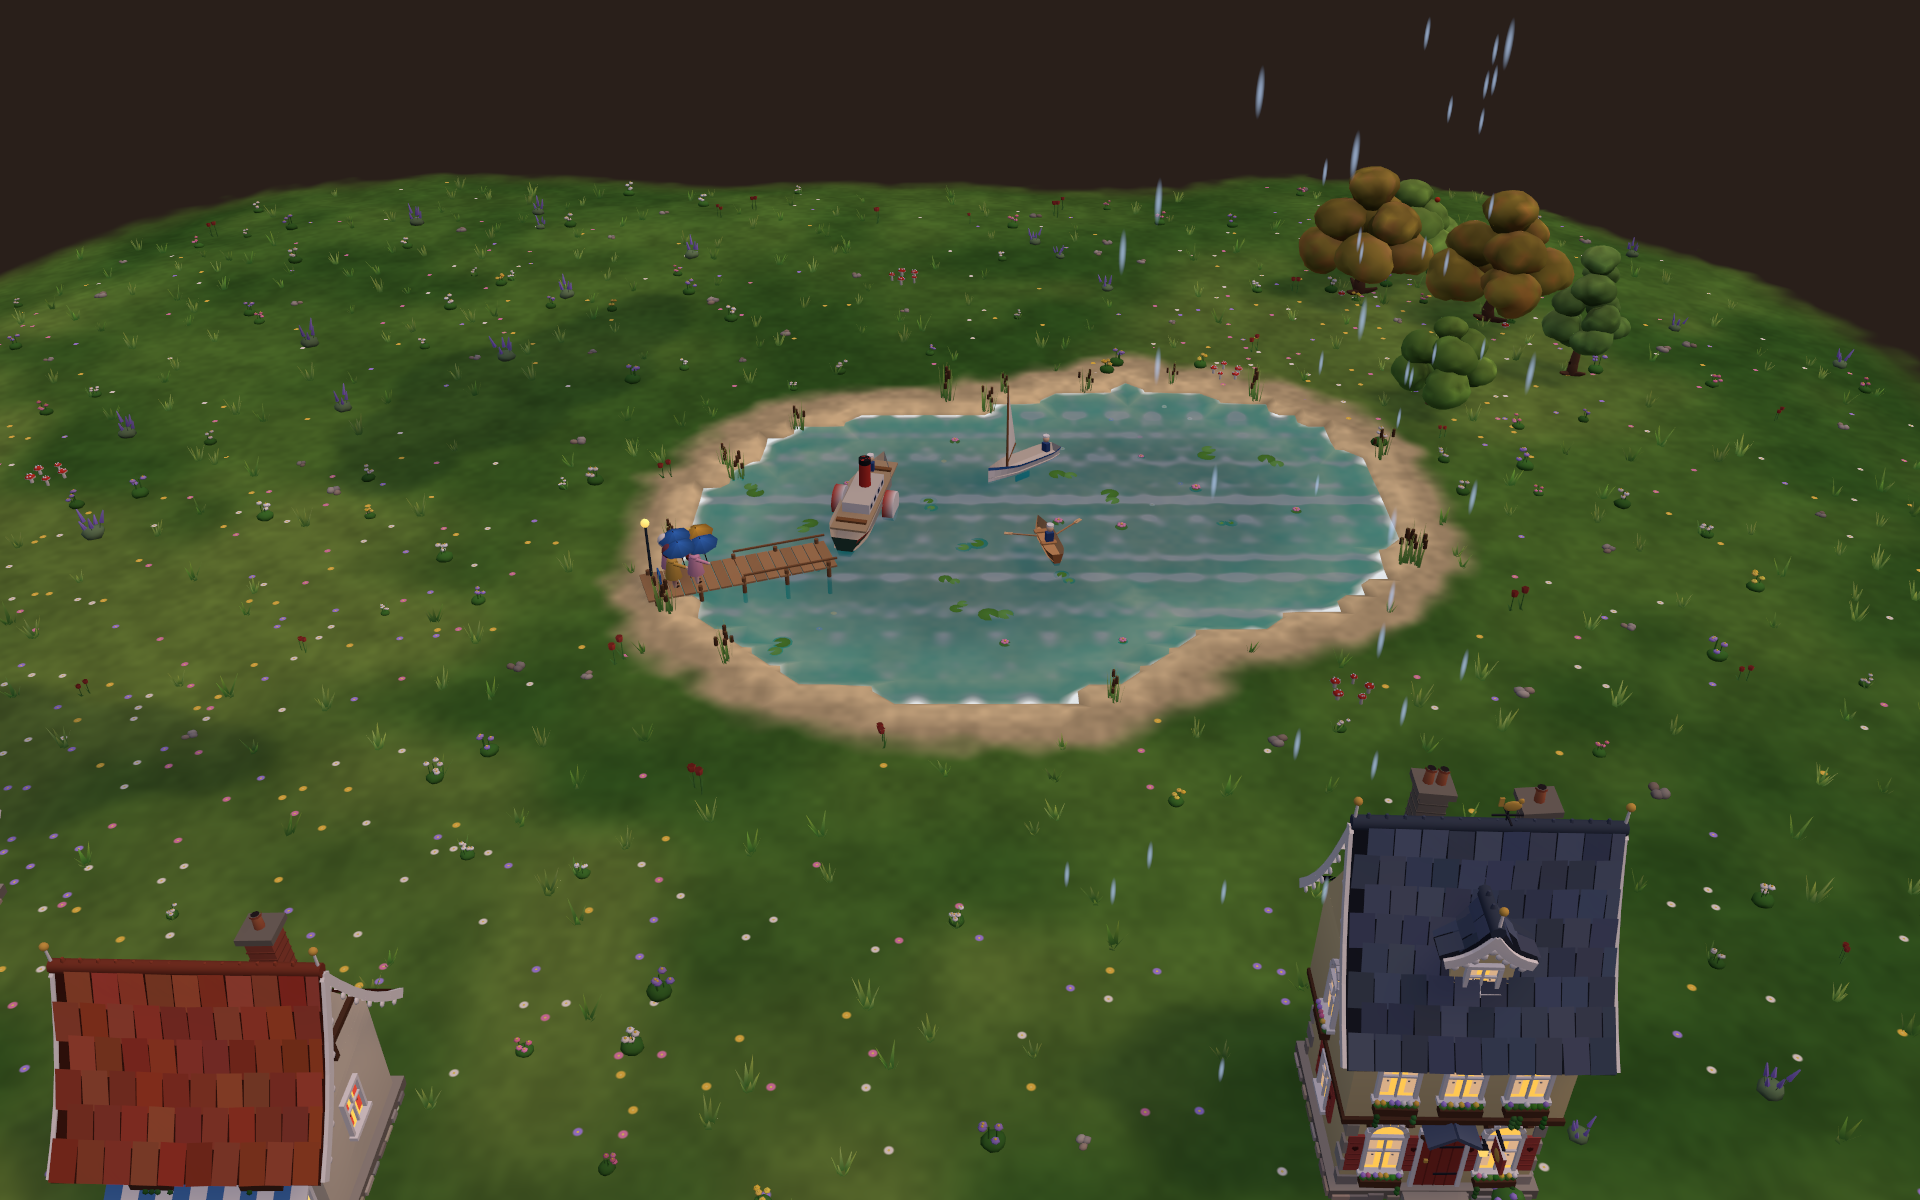
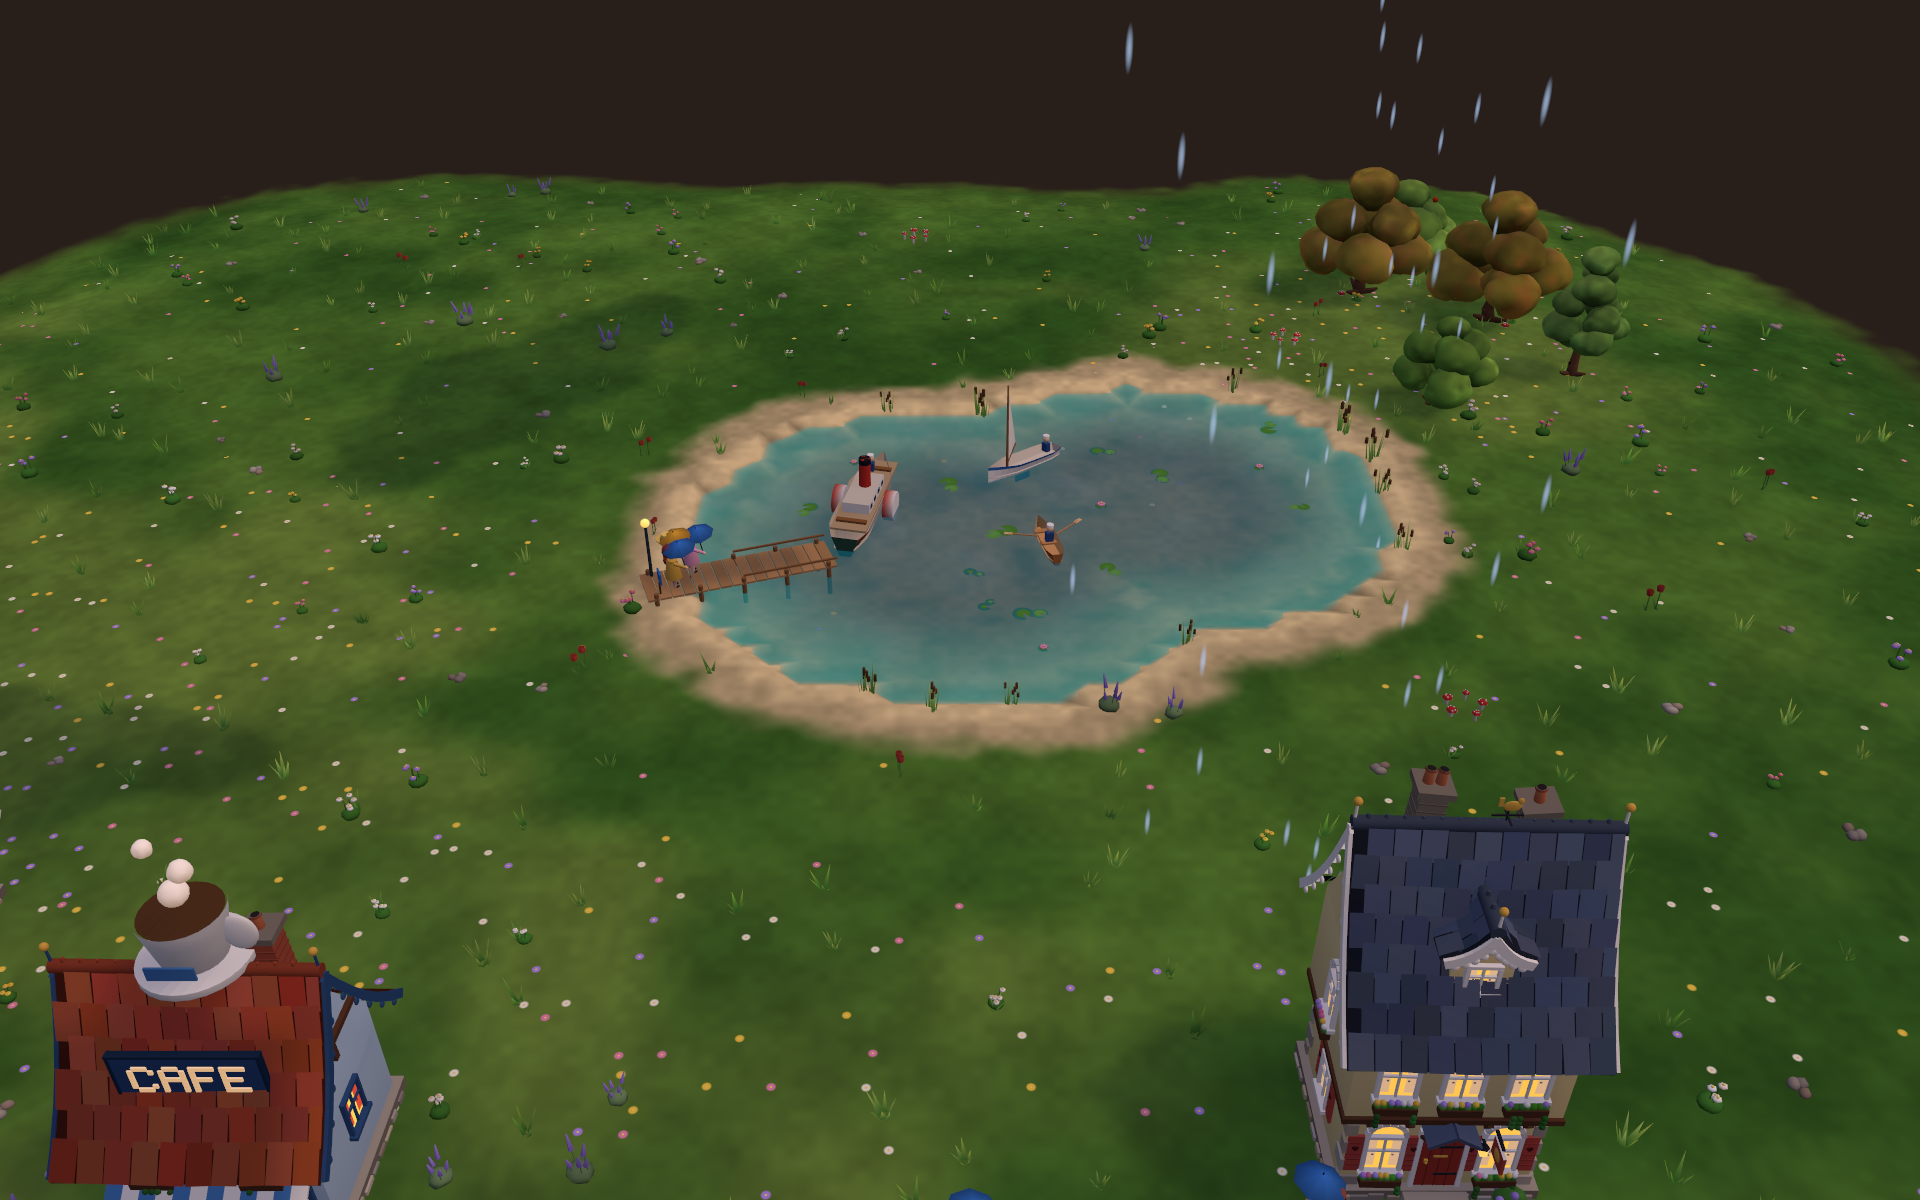
Water that looks like water: smooth soft shorelines, ripples that don't line up, no white blocks
- Ponds: the surface stays flat at the water's level two cells out under the banks, so the land cuts it along the
  smooth line where the two meet (it used to slope down under the bank and show the grid's steps), and it fades out
  towards dry ground instead of ending in white sawteeth
- The ripples are two layers of noise turned different ways, so their glints no longer line up in stripes across the
  pond; a softer glint, a lighter fringe in the shallows, a deeper middle
- Streams: steep drops show whitewater streaks rather than a solid white band

diff --git a/Assets/Wonderland/Scripts/World/WaterRenderer.cs b/Assets/Wonderland/Scripts/World/WaterRenderer.cs
@@ -5,8 +5,8 @@ using UnityEngine.Rendering;
 namespace Wonderland
 {
     /// <summary>
-    /// Draws the ponds: a flat water surface over every water cell (and a one-cell margin so it meets the banks, where
-    /// the opaque terrain clips it into a natural shoreline). Chunked like the terrain; only touched chunks rebuild.
+    /// Draws the ponds: a flat water surface over every water cell and two cells beyond, under the banks, where the
+    /// opaque terrain clips it into a smooth, natural shoreline. Chunked like the terrain; only touched chunks rebuild.
     /// Vertex colour: r = depth (0 shore .. 1 deep), g = shore (foam), b = flow (0 for still water).
     /// </summary>
     public sealed class WaterRenderer : MonoBehaviour
@@ -40,8 +40,8 @@ namespace Wonderland
         private float LevelNear(int x, int z)
         {
             float best = -1f;
-            for (int oz = -1; oz <= 1; oz++)
-            for (int ox = -1; ox <= 1; ox++)
+            for (int oz = -2; oz <= 2; oz++)
+            for (int ox = -2; ox <= 2; ox++)
             {
                 int xx = x + ox, zz = z + oz;
                 if (xx < 0 || zz < 0 || xx >= field.Nx || zz >= field.Nz) continue;
@@ -79,10 +79,11 @@ namespace Wonderland
                     int i = zz * field.Nx + xx;
                     float depth = Mathf.Clamp01((level - field.Surface[i]) / TerrainField.PondDepth);
                     bool wet = field.Water[i] >= 0.5f;
-                    float shore = wet ? Mathf.Clamp01(1f - depth * 4f) : 1f;
-                    // Outside the pond the surface dips just under the ground, so the terrain clips it into the shoreline.
-                    float y = wet ? level : Mathf.Min(level, field.Surface[i] - 0.0012f);
-                    builder.AddVertex(new Vector3(field.LocalX(xx), y, field.LocalZ(zz)), Vector3.up, new Color(depth, shore, 0f, 1f));
+                    float shore = wet ? Mathf.Clamp01(1f - depth * 4f) : 0.8f;
+                    // Flat all the way out under the banks: the ground cuts it, so the shoreline is the smooth line where
+                    // the land meets the water's level (not the grid's steps).
+                    float y = level;
+                    builder.AddVertex(new Vector3(field.LocalX(xx), y, field.LocalZ(zz)), Vector3.up, new Color(depth, shore, 0f, wet ? 1f : 0f));   // (a: fades out towards dry land - a soft edge, not the grid's steps)
                 }
                 builder.AddTriangle(v, v + 3, v + 2); builder.AddTriangle(v, v + 2, v + 1);
             }

diff --git a/Assets/Wonderland/Scripts/World/StreamSystem.cs b/Assets/Wonderland/Scripts/World/StreamSystem.cs
@@ -267,7 +267,7 @@ namespace Wonderland
                     {
                         float u = k / (float)across, off = (u - 0.5f) * 2f;
                         float depth = (1f - off * off) * 0.75f;
-                        float shore = Mathf.Max(Mathf.Abs(off) > 0.75f ? 1f : 0f, rapids * 0.8f);
+                        float shore = Mathf.Max(Mathf.Abs(off) > 0.75f ? 1f : 0f, rapids * 0.45f);   // (whitewater streaks, not a white block)
                         int v = b.AddVertex(p + side * off * hw + Vector3.up * 0.0004f, Vector3.up, new Color(depth, shore, 0.5f + rapids * 0.5f, 1f));
                         b.Uvs[v] = new Vector2(u * 0.6f, along);
                     }
